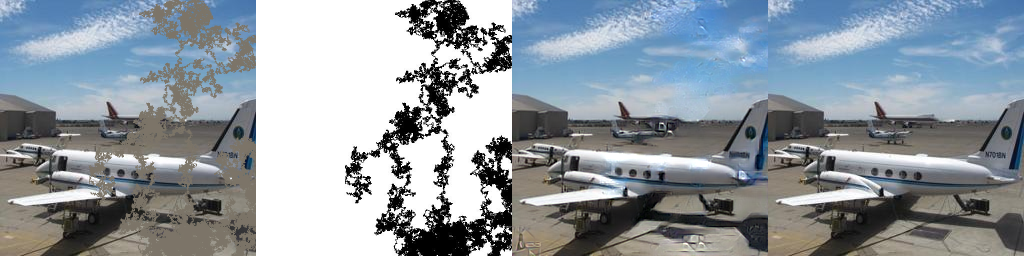
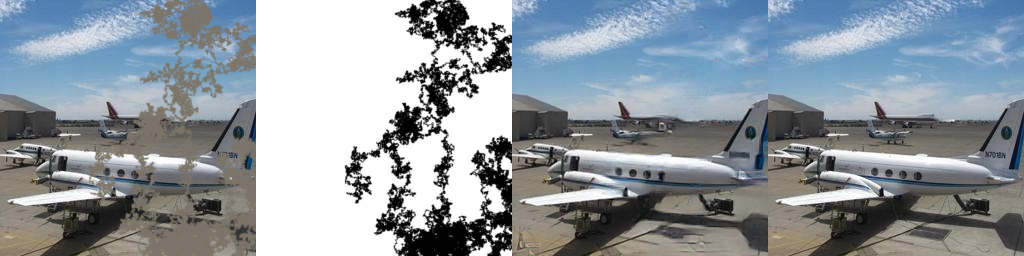
fix resize

diff --git a/image_manipulation/pytorch-inpainting-with-partial-conv/pytorch-inpainting-with-partial-conv.py b/image_manipulation/pytorch-inpainting-with-partial-conv/pytorch-inpainting-with-partial-conv.py
@@ -6,6 +6,7 @@ import random
 
 import numpy as np
 import cv2
+from PIL import Image
 
 import ailia
 
@@ -72,7 +73,7 @@ def recognize_from_image(net):
         # prepare grand truth
         gt_img = load_image(image_path)
         gt_img = cv2.cvtColor(gt_img, cv2.COLOR_BGRA2RGB)
-        gt_img = cv2.resize(gt_img, (IMAGE_WIDTH, IMAGE_HEIGHT))
+        gt_img = np.array(Image.fromarray(gt_img).resize((IMAGE_WIDTH, IMAGE_HEIGHT), Image.BILINEAR))
         gt_img = normalize_image(gt_img, 'ImageNet')
         gt_img = gt_img.transpose((2, 0, 1))  # channel first
 
@@ -83,7 +84,7 @@ def recognize_from_image(net):
             mask_path = mask_paths[random.randint(0, N_mask - 1)]
         mask = load_image(mask_path)
         mask = cv2.cvtColor(mask, cv2.COLOR_BGRA2RGB)
-        mask = cv2.resize(mask, (IMAGE_WIDTH, IMAGE_HEIGHT))
+        mask = np.array(Image.fromarray(mask).resize((IMAGE_WIDTH, IMAGE_HEIGHT), Image.BILINEAR))
         mask = mask.transpose((2, 0, 1)) / 255  # channel first
 
         # prepare input data
